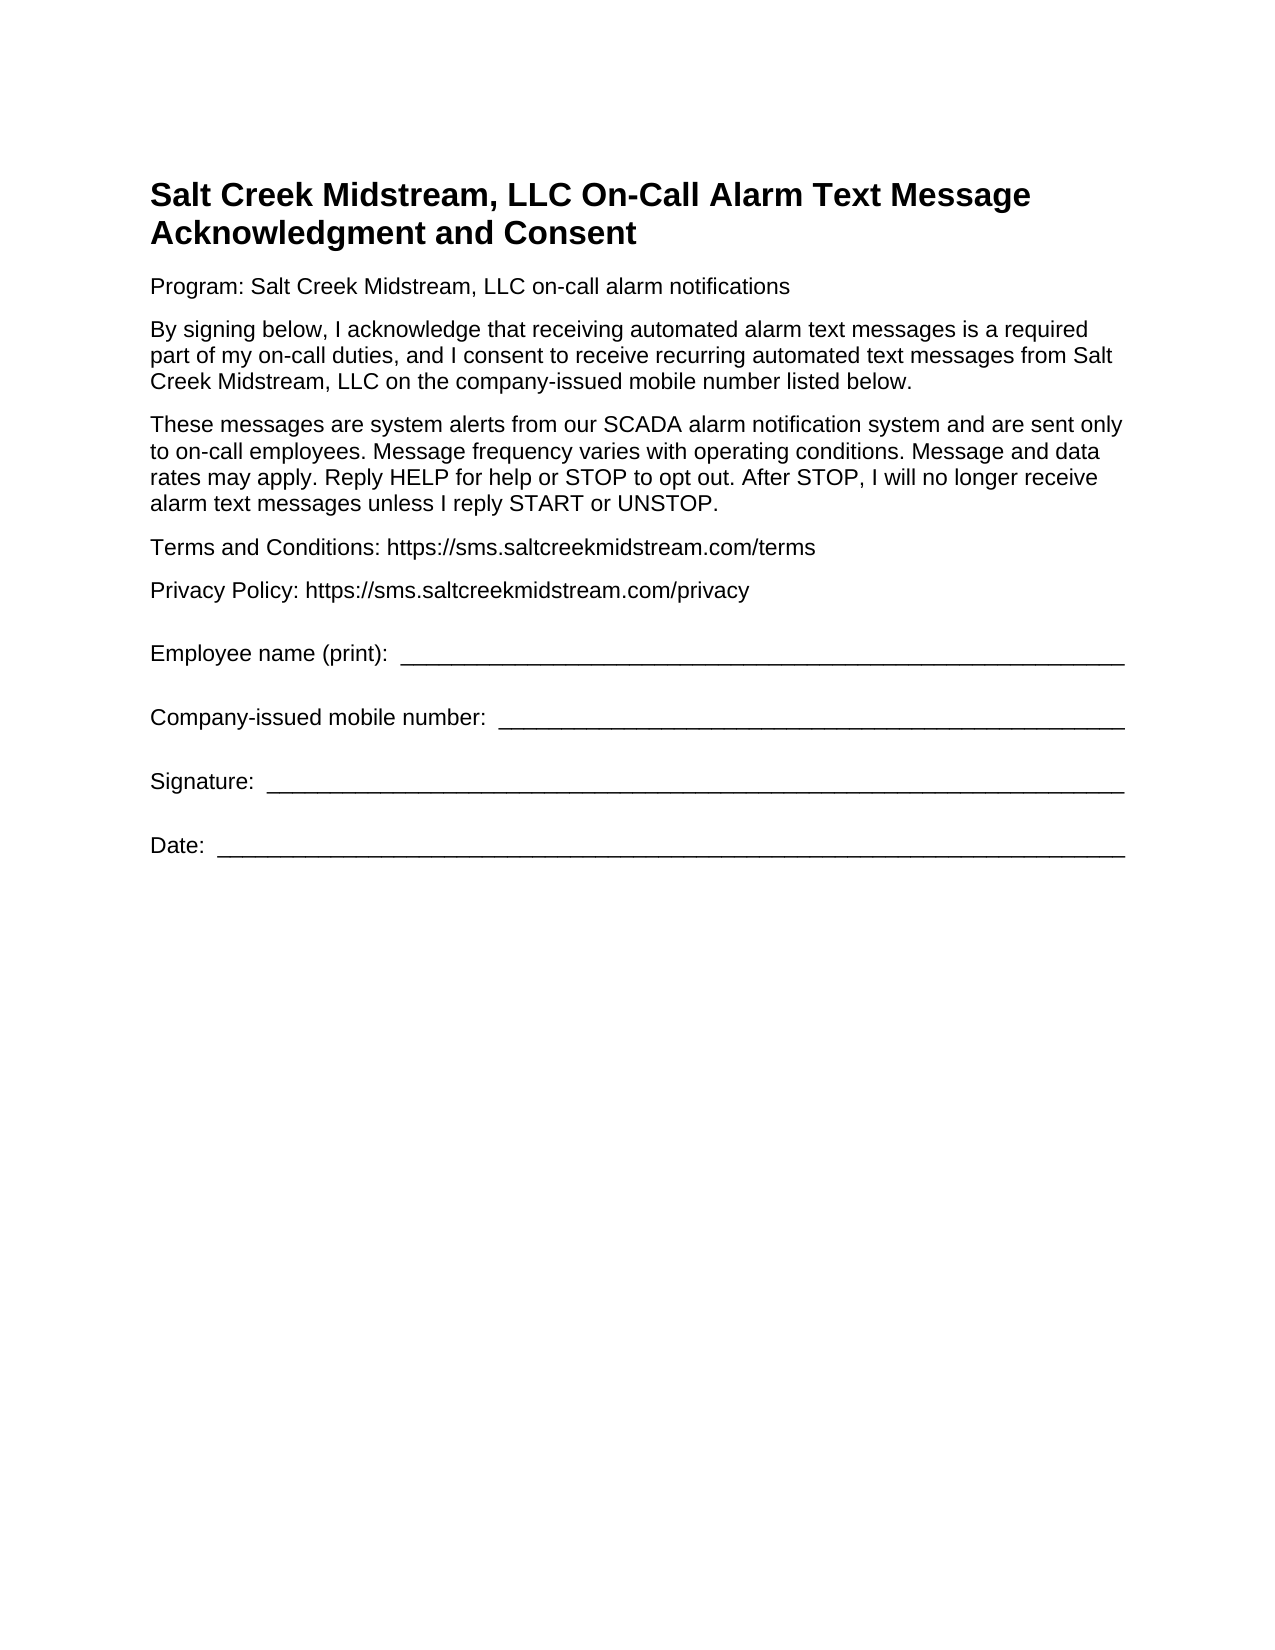
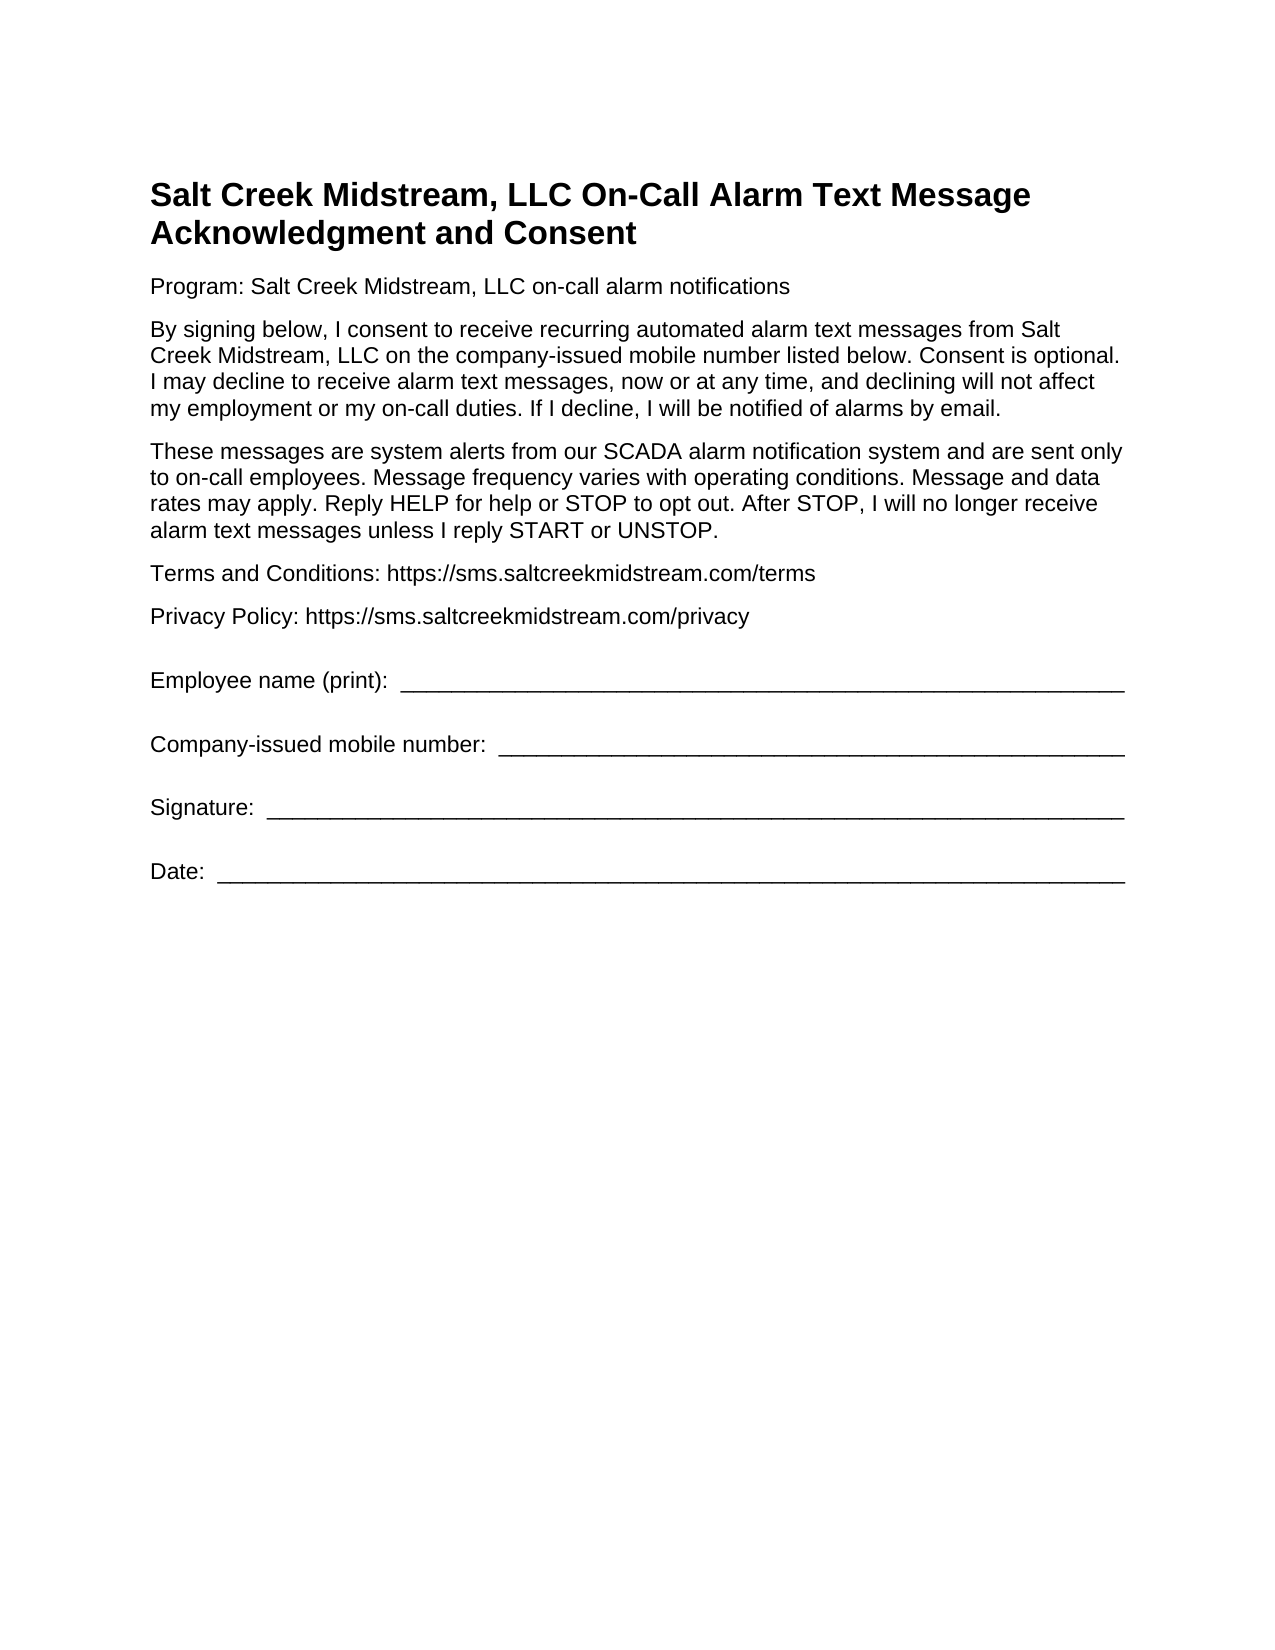
Add files via upload

Changed region(s): [[0.1224, 0.1855, 0.8871, 0.5564]]

diff --git a/terms/index.html b/terms/index.html
@@ -12,7 +12,7 @@
 <h2>SMS Terms</h2>
 <p>Program name: Salt Creek Midstream, LLC On-Call Alarm Notifications</p>
 <p>Description: Salt Creek Midstream, LLC sends automated text messages to on-call employees on company-issued mobile phones when a monitored alarm requires attention. Messages are operational alerts only. No marketing or promotional messages are sent.</p>
-<p>Enrollment: Receiving alarm text messages is a required part of on-call duty. Employees acknowledge and consent in writing using the On-Call Alarm Text Message Acknowledgment and Consent form before receiving messages.</p>
+<p>Enrollment: Receiving alarm text messages is optional. Employees who choose to receive them consent in writing using the On-Call Alarm Text Message Acknowledgment and Consent form before receiving messages. Employees may decline, and declining will not affect their employment or on-call duties; employees who decline will be notified of alarms by email.</p>
 <p>Message frequency: Message frequency varies with operating conditions.</p>
 <p>Message and data rates may apply.</p>
 <p>Opt out: <strong>Reply STOP</strong> at any time to stop receiving messages. After STOP, no further alarm text messages will be sent to that number unless the employee replies START or UNSTOP.</p>
